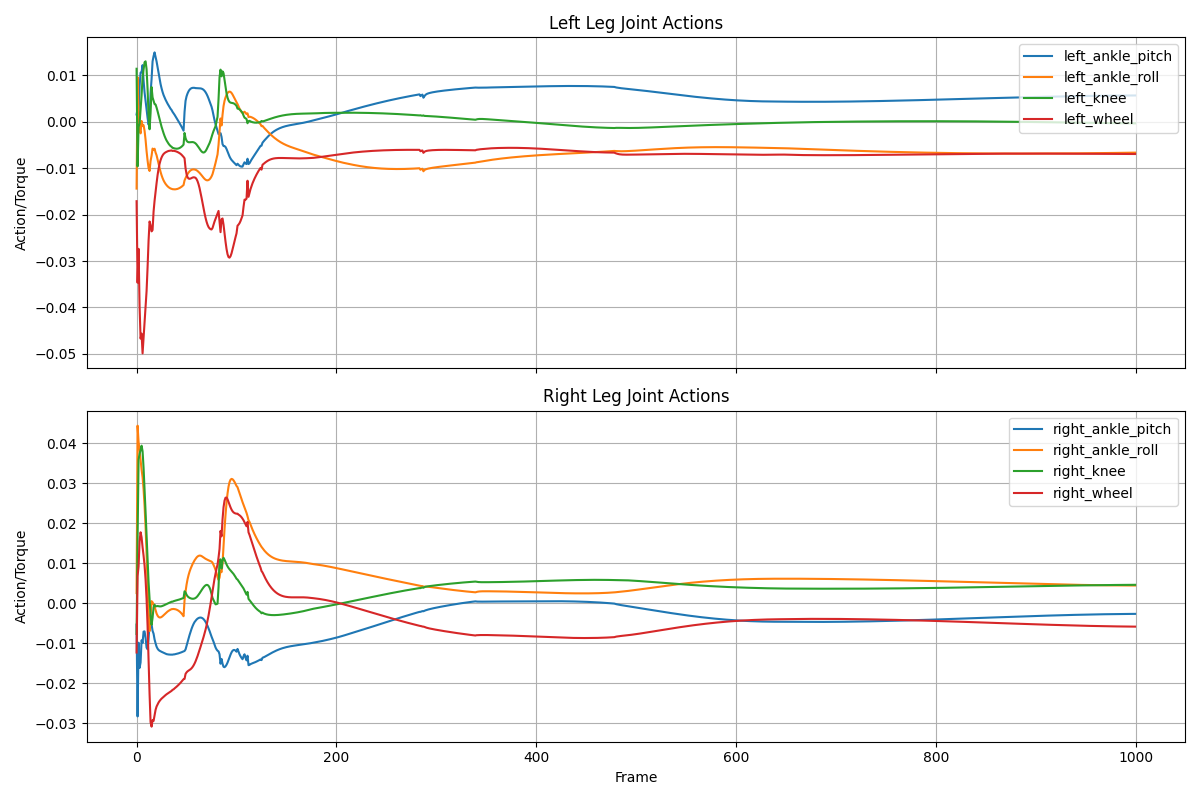
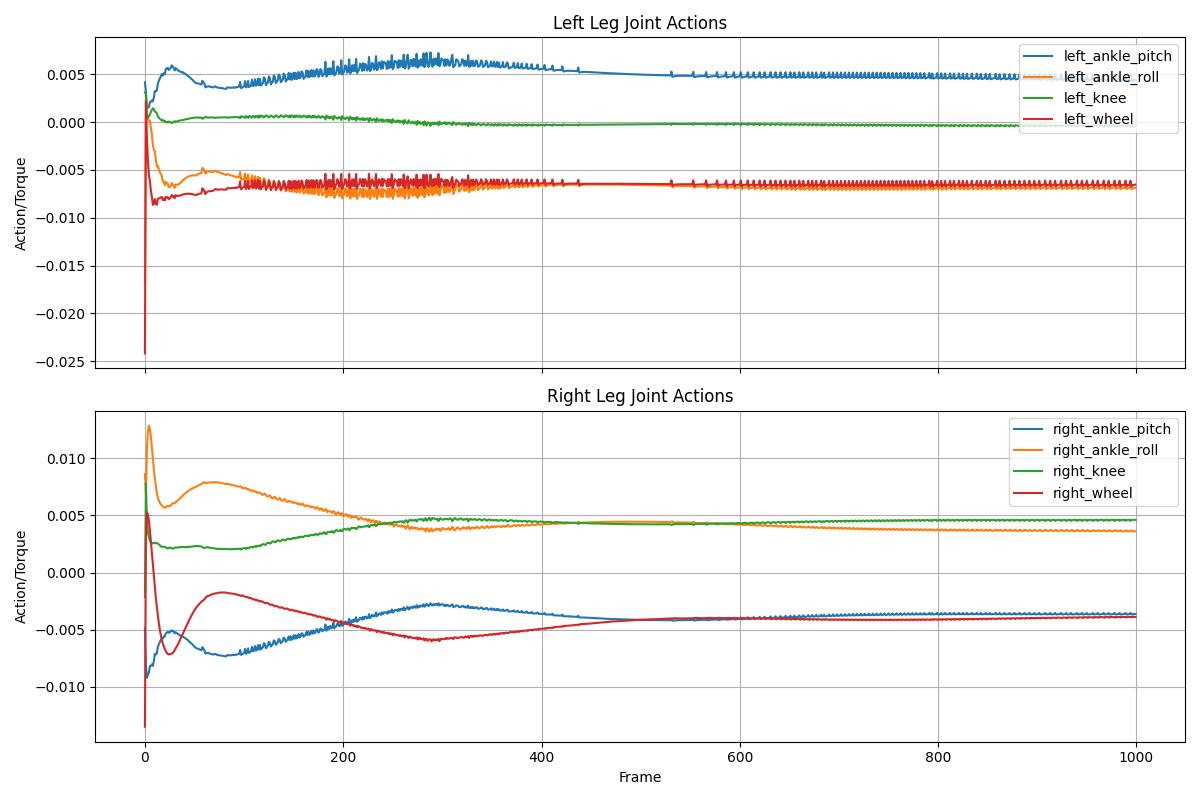
plots on test

diff --git a/TITA_MJ/tesi/test_python/tita.py b/TITA_MJ/tesi/test_python/tita.py
@@ -247,7 +247,7 @@ def save_best(algorithm, alg_type, actor_policy, actor_path, critic_policy, crit
     #print("\nSaved best actor policy")
 
     if alg_type == _STR_PPO:
-        torch.save(algorithm.policy.critic.state_dict(), critic_best_path)
+        torch.save(critic_policy.state_dict(), critic_best_path)
         #print("Saved best critic policy")
     elif alg_type == _STR_SAC:
         torch.save(critic_policy[0].state_dict(), critic_best_path.replace(".pt", "_1.pt"))
@@ -301,13 +301,23 @@ def test_enviroment(
         total_reward = 0
         n_frame = 0
         history_action = []
+        history_reward_info = []
         terminated = False
         truncated = False
+
+        start_time_inference = []
+        end_time_inference = []
         
         while True and (not terminated) and (not truncated):
             batch = Batch(obs=np.array([obs]), info={})
             with torch.no_grad():
+                    
+                start_time_inference.append(time.time())
                 result = policy(batch)
+                end_time_inference.append(time.time())
+                if n_frame == 0:  
+                    inference_time = end_time_inference[0] - start_time_inference[0]
+                
             action = result.act[0]            
             if isinstance(action, torch.Tensor):
                 action = action.cpu().numpy()
@@ -315,6 +325,7 @@ def test_enviroment(
 
             obs, reward, terminated, truncated, info = env.step(action)
             total_reward += reward
+            history_reward_info.append(info)
 
 
             if n_frame == 0 or (n_frame+1) % 100 == 0:
@@ -334,6 +345,12 @@ def test_enviroment(
             n_frame += 1
             if terminated or truncated:
                 print(f"Episode terminated. Reward: {total_reward:.2f}")
+                print(f"Inference time: {1000*inference_time:.6f} ms first step")
+
+                mean_inference_time = 1000 * np.mean([end - start for start, end in zip(start_time_inference, end_time_inference)])
+                std_inference_time = 1000 * np.std([end - start for start, end in zip(start_time_inference, end_time_inference)])
+                print(f"inference time: {mean_inference_time:.6f} ± {std_inference_time:.6f} ms")
+        
                 actions_array = np.array(history_action) # Shape: (N_frames, 8)
                 frames = np.arange(len(actions_array))
                 
@@ -341,27 +358,61 @@ def test_enviroment(
                 legend_left = ["left_" + name for name in joint_names]
                 legend_right = ["right_" + name for name in joint_names]
 
-                fig, axes = plt.subplots(2, 1, figsize=(12, 8), sharex=True)
+                def plot_actions():
+                    fig, axes = plt.subplots(2, 1, figsize=(12, 8), sharex=True)
 
-                for i in range(4):
-                    axes[0].plot(frames, actions_array[:, i], label=legend_left[i])
-                axes[0].set_ylabel("Action/Torque")
-                axes[0].set_title("Left Leg Joint Actions")
-                axes[0].legend(loc='upper right')
-                axes[0].grid(True)
+                    for i in range(4):
+                        axes[0].plot(frames, actions_array[:, i], label=legend_left[i])
+                    axes[0].set_ylabel("Action/Torque")
+                    axes[0].set_title("Left Leg Joint Actions")
+                    axes[0].legend(loc='upper right')
+                    axes[0].grid(True)
 
-                for i in range(4):
-                    axes[1].plot(frames, actions_array[:, i+4], label=legend_right[i])
-                axes[1].set_xlabel("Frame")
-                axes[1].set_ylabel("Action/Torque")
-                axes[1].set_title("Right Leg Joint Actions")
-                axes[1].legend(loc='upper right')
-                axes[1].grid(True)
+                    for i in range(4):
+                        axes[1].plot(frames, actions_array[:, i+4], label=legend_right[i])
+                    axes[1].set_xlabel("Frame")
+                    axes[1].set_ylabel("Action/Torque")
+                    axes[1].set_title("Right Leg Joint Actions")
+                    axes[1].legend(loc='upper right')
+                    axes[1].grid(True)
 
-                plt.tight_layout()
-                plt.savefig(os.path.join(save_dir, "torque_in_render_test.png"))
-                print(f"Saved torque_in_render_test.png in {save_dir}")
+                    plt.tight_layout()
+                    os.makedirs(save_dir, exist_ok=True)
+                    plt.savefig(os.path.join(save_dir, "torque_in_render_test.png"))
+                    print(f"Saved torque_in_render_test.png in {save_dir}")
                 
+                def plot_reward_info():
+                    reward_info_keys = list(history_reward_info[0].keys())
+                    reward_info_keys = [key for key in reward_info_keys if env.unwrapped.get_config().reward_config.scales.get(key) != 0] 
+                    n_keys = len(reward_info_keys)
+                    
+                    mid = (n_keys + 1) // 2
+                    fig, axes = plt.subplots(2, 1, figsize=(12, 10), sharex=True)
+
+                    for idx, key in enumerate(reward_info_keys):
+                        ax = axes[0] if idx < mid else axes[1]
+                        
+                        reward_values = [info[key] for info in history_reward_info]
+                        ax.plot(frames, reward_values, label=key)
+                    axes[0].set_title("Reward Info")
+                    axes[0].set_ylabel("Value")
+                    axes[0].legend(loc='upper right', ncol=2) #
+                    axes[0].grid(True)
+
+                    # Configurazioni per il grafico inferiore
+                    axes[1].set_title("Reward Info")
+                    axes[1].set_ylabel("Value")
+                    axes[1].set_xlabel("Frame")
+                    axes[1].legend(loc='upper right', ncol=2)
+                    axes[1].grid(True)
+
+                    plt.tight_layout()
+                    os.makedirs(save_dir, exist_ok=True)
+                    plt.savefig(os.path.join(save_dir, "reward_info_in_render_test.png"))
+                    print(f"Saved reward_info_in_render_test.png in {save_dir}")
+                plot_actions()
+                plot_reward_info()
+
                 #plt.show()
 
                 break
@@ -411,7 +462,7 @@ def dist_fn(loc_scale: tuple[torch.Tensor, torch.Tensor]) -> Distribution:
     return Independent(Normal(loc, scale), 1)
 
 def create_wrapped_env(task: str, render_mode=None) -> gym.Env:
-    env = gym.make(task, render_mode=render_mode)
+    env = gym.make(task, render_mode=render_mode, width=1000, height=600)
     #env = gym.wrappers.NormalizeObservation(env)  
     #env = gym.wrappers.TransformObservation(env, lambda obs: np.clip(obs, -10, 10), env.observation_space)
     env = gym.wrappers.FrameStackObservation(env, stack_size=env.unwrapped.get_config().frame_stack)
@@ -449,7 +500,7 @@ def main():
     task = "Tita-v0" #"Pendulum-v1"
     lr = 0.0000001
     hidden_sizes = [256, 256, 256]
-    num_training_envs = 1
+    num_training_envs = 8
     num_test_envs = 1
     num_view_test_env = 1
 
@@ -743,6 +794,7 @@ def main():
                 test_collector=test_collector,  
                 logger=logger,
                 test_fn=test_fn,
+                stop_fn=lambda mean_rewards: mean_rewards >= 2950.0,
                 save_best_fn=partial(save_best, alg_type=alg_type, actor_policy=actor, actor_path=actor_path, critic_policy=critic, critic_path=critic_path),
                 test_in_training=False,
 
@@ -817,7 +869,10 @@ def main():
         log_and_print("\t Max epochs:", trainer_type.max_epochs)
         log_and_print("\t Batch size:", trainer_type.batch_size)
         log_and_print("\t Epoch num steps:", trainer_type.epoch_num_steps)
-        log_and_print("\t Collection step num env steps:", trainer_type.collection_step_num_env_steps, ", roullout: ", trainer_type.collection_step_num_env_steps/num_training_envs)
+        if trainer_type.collection_step_num_env_steps is not None:
+            log_and_print("\t Collection step num env steps:", trainer_type.collection_step_num_env_steps, ", roullout: ", trainer_type.collection_step_num_env_steps/num_training_envs)
+        else:
+            log_and_print("\t Collection step num episodes:", trainer_type.collection_step_num_episodes, ", episode per enviroment: ", trainer_type.collection_step_num_episodes/num_training_envs)
         log_and_print("\t Update step num gradient steps per sample:", trainer_type.update_step_num_gradient_steps_per_sample)
         log_and_print("\t Test step num episodes:", trainer_type.test_step_num_episodes, "\n")
     else:
